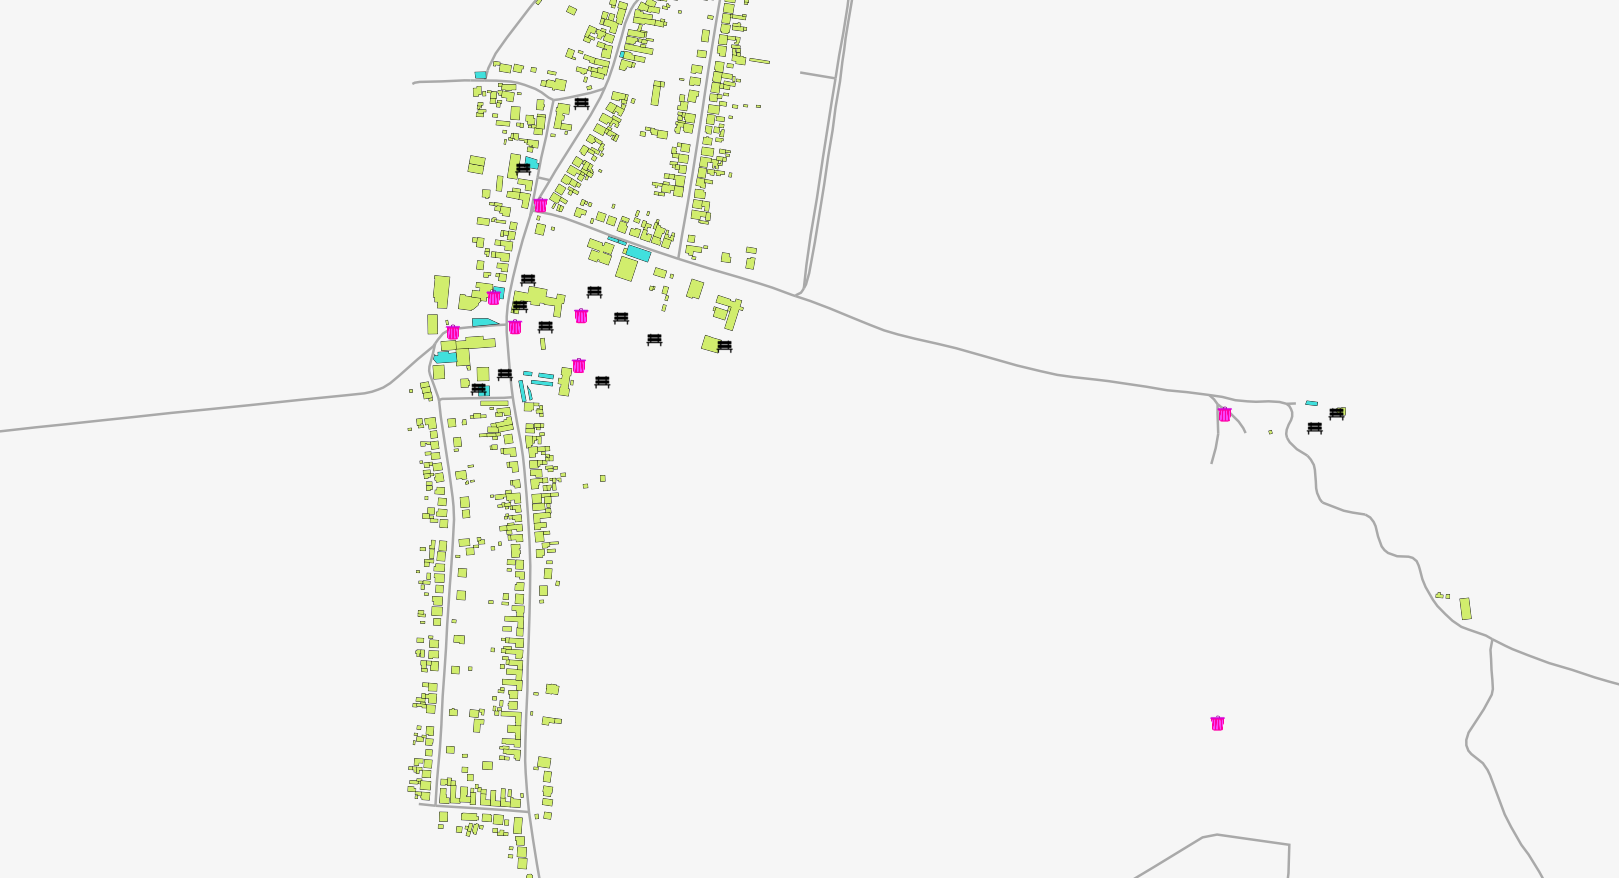
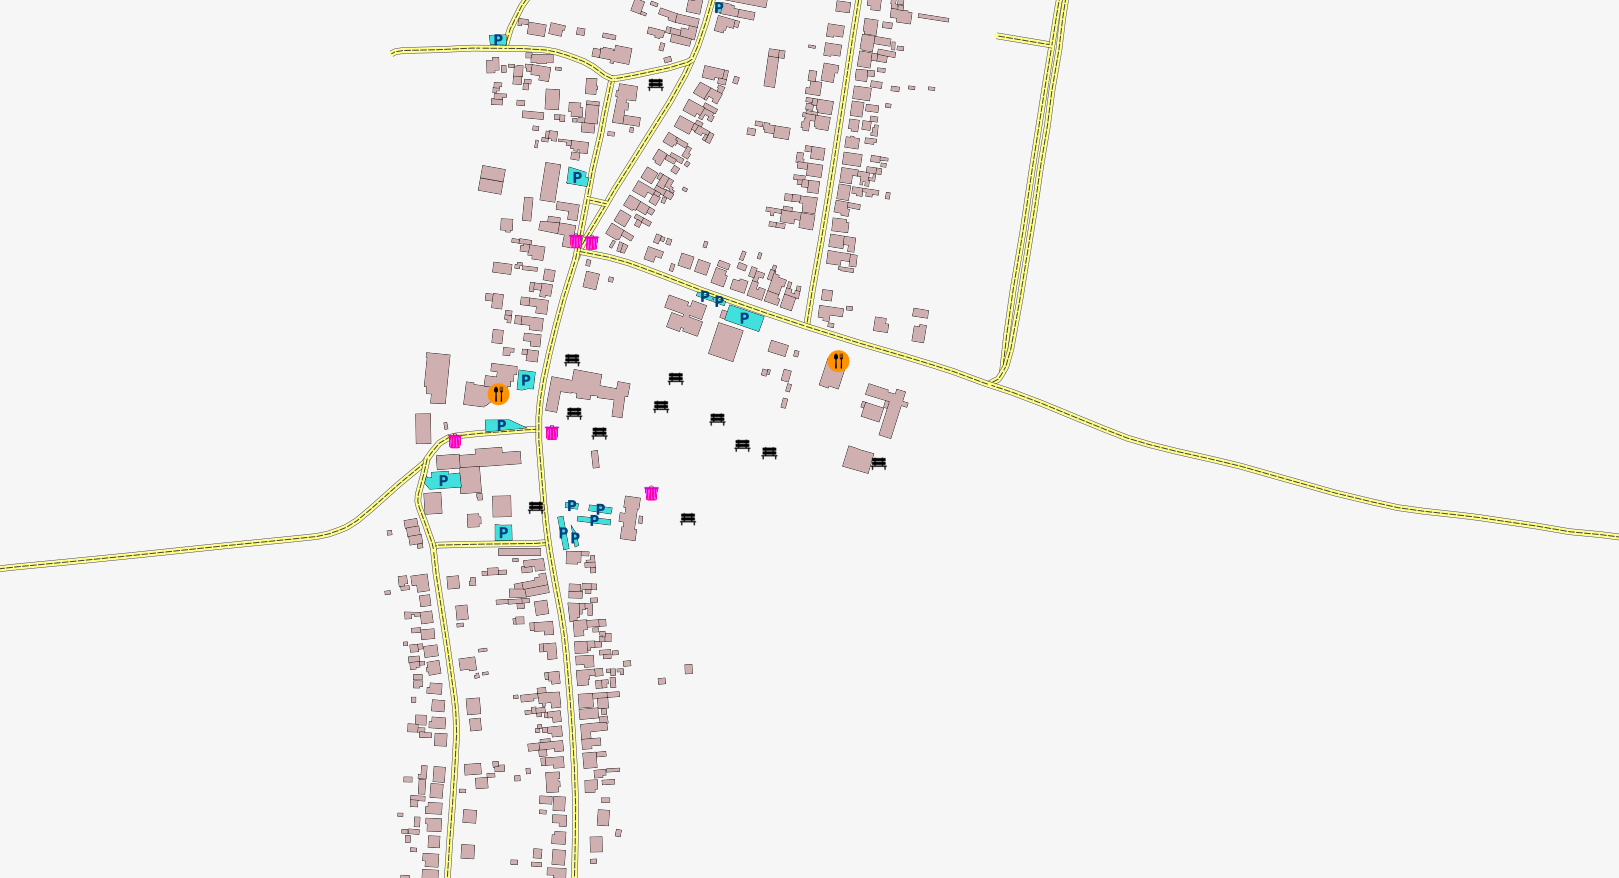
update

diff --git a/generate_image.js b/generate_image.js
@@ -19,20 +19,31 @@ var addBudovy=arg.LAYERS.includes('budovy');
 var addCesty=arg.LAYERS.includes('cesty');
 var addLavicky=arg.LAYERS.includes('lavicky');
 var addOdpad=arg.LAYERS.includes('odpad');
+var addStravovanie=arg.LAYERS.includes('stravovanie');
 var addParkovisko=arg.LAYERS.includes('parkovisko');
+
 
 var proj = "+proj=krovak +lat_0=49.5 +lon_0=24.83333333333333 +alpha=30.28813972222222 +k=0.9999 +x_0=0 +y_0=0 +ellps=bessel +towgs84=589,76,480,0,0,0,0 +units=m +no_defs";
 
 var style_budovy='<Style name="style_budovy">' + // style for layer "style_budovy"
 '<Rule>' +
     '<LineSymbolizer stroke="black" stroke-width="0.8" />' + // style for lines
-    '<PolygonSymbolizer fill="#d1ed6d"  />' + // style for polygons
+    '<PolygonSymbolizer fill="#cfafaf"  />' + // style for polygons
     '</Rule>' +
     '</Style>' 
     
 var style_cesty='<Style name="style_cesty">' + // style for layer "style_cesty"
-'<Rule>' +
-    '<LineSymbolizer stroke="#a9a9a9" stroke-width="2.5" />' + // style for lines
+    '<Rule>' +
+    '<MinScaleDenominator>9000</MinScaleDenominator>'+
+    '<LineSymbolizer stroke="black" stroke-width="0.5"/>' + // style for lines
+    '</Rule>' +
+
+    '<Rule>' +
+    '<MaxScaleDenominator>8000</MaxScaleDenominator>'+
+     '<LineSymbolizer stroke="#ffff86" stroke-width="5" stroke-linejoin="round" stroke-linecap="round" />' + // style for lines
+    '<LineSymbolizer stroke="#414141" stroke-width="1" stroke-linejoin="round" stroke-dasharray="6,2" stroke-linecap="round" />'+
+    '<LineSymbolizer stroke="#414141" stroke-width="0.5" offset="3" stroke-linecap="round" />' +
+    '<LineSymbolizer stroke="#414141" stroke-width="0.5" offset="-3" stroke-linecap="round" />' +
     '</Rule>' +
 '</Style>' 
 
@@ -43,6 +54,7 @@ var style_lavicky='<Style name="style_lavicky">' + // style for layer "style_lav
 '<MarkersSymbolizer file="./icon/lavicka4.png" width="20" height="20"  />'+
 '</Rule>' +
 '</Style>' 
+
 var style_odpad='<Style name="style_odpad">' + // style for layer "style_lavicky"
 '<Rule>' +
 '<MaxScaleDenominator>5866</MaxScaleDenominator>' +
@@ -51,10 +63,23 @@ var style_odpad='<Style name="style_odpad">' + // style for layer "style_lavicky
 '</Rule>' +
 '</Style>' 
 
+var style_stravovanie='<Style name="style_stravovanie">' + // style for layer "style_lavicky"
+'<Rule>' +
+'<MaxScaleDenominator>5866</MaxScaleDenominator>' +
+'<MinScaleDenominator>200</MinScaleDenominator>'+
+'<MarkersSymbolizer file="./icon/food.png" width="22" height="22" />'+
+'</Rule>' +
+'</Style>' 
+
 var style_parkovisko='<Style name="style_parkovisko">' + // style for layer "style_lavicky"
 '<Rule>' +
 '<LineSymbolizer stroke="black" stroke-width="0.8" />' + // style for lines
 '<PolygonSymbolizer fill="#40e0dd"  />' + 
+'</Rule>' +
+'<Rule>' +
+'<MaxScaleDenominator>5866</MaxScaleDenominator>' +
+'<MinScaleDenominator>200</MinScaleDenominator>'+
+'<TextSymbolizer placement="dummy" face-name="DejaVu Sans Condensed Bold" size="15" fill="#004080" allow-overlap="false" clip="false"> "P" </TextSymbolizer>'+
 '</Rule>' +
 '</Style>' 
 
@@ -82,6 +107,14 @@ var layer_odpad = '<Layer name="odpad" srs="'+proj+'">' + // same as above
 '</Datasource>' +
 '</Layer>'
 
+var layer_stravovanie = '<Layer name="stravovanie" srs="'+proj+'">' + // same as above
+'<StyleName>style_stravovanie</StyleName>' +
+'<Datasource>' +
+'<Parameter name="file">' + path.join( __dirname, 'data/stravovanie.shp' ) +'</Parameter>' +
+'<Parameter name="type">shape</Parameter>' +
+'</Datasource>' +
+'</Layer>'
+
 var layer_parkovisko = '<Layer name="parkovisko" srs="'+proj+'">' + // same as above
 '<StyleName>style_parkovisko</StyleName>' +
 '<Datasource>' +
@@ -102,15 +135,16 @@ var layer_lavicky = '<Layer name="lavicky" srs="'+proj+'">' + // same as above
 var schema = '<Map background-color="#f6f6f6" srs="'+proj+'">' + // we define background color of the map and its spatial reference system with epsg code of data used
                 (addBudovy ? style_budovy : '') +
                 (addBudovy ? layer_budovy : '') +
-                (addCesty ? style_cesty : ' ') +
-                (addCesty ? layer_cesty : ' ') +
-                (addParkovisko ? style_parkovisko : ' ') +
-                (addParkovisko ? layer_parkovisko : ' ') +
-                (addLavicky ? style_lavicky : ' ') +
-                (addLavicky ? layer_lavicky : ' ') +
-                (addOdpad ? style_odpad : ' ') +
-                (addOdpad ? layer_odpad : ' ') +
-                   
+                (addCesty ? style_cesty : '') +
+                (addCesty ? layer_cesty : '') +
+                (addParkovisko ? style_parkovisko : '') +
+                (addParkovisko ? layer_parkovisko : '') +
+                (addLavicky ? style_lavicky : '') +
+                (addLavicky ? layer_lavicky : '') +
+                (addOdpad ? style_odpad : '') +
+                (addOdpad ? layer_odpad : '') +
+                (addStravovanie ? style_stravovanie : '') +
+                (addStravovanie? layer_stravovanie : '') +   
             '</Map>';
 // now we have a mapnik xml in variable schema that defines layers, data sources and styles of the layers
 
